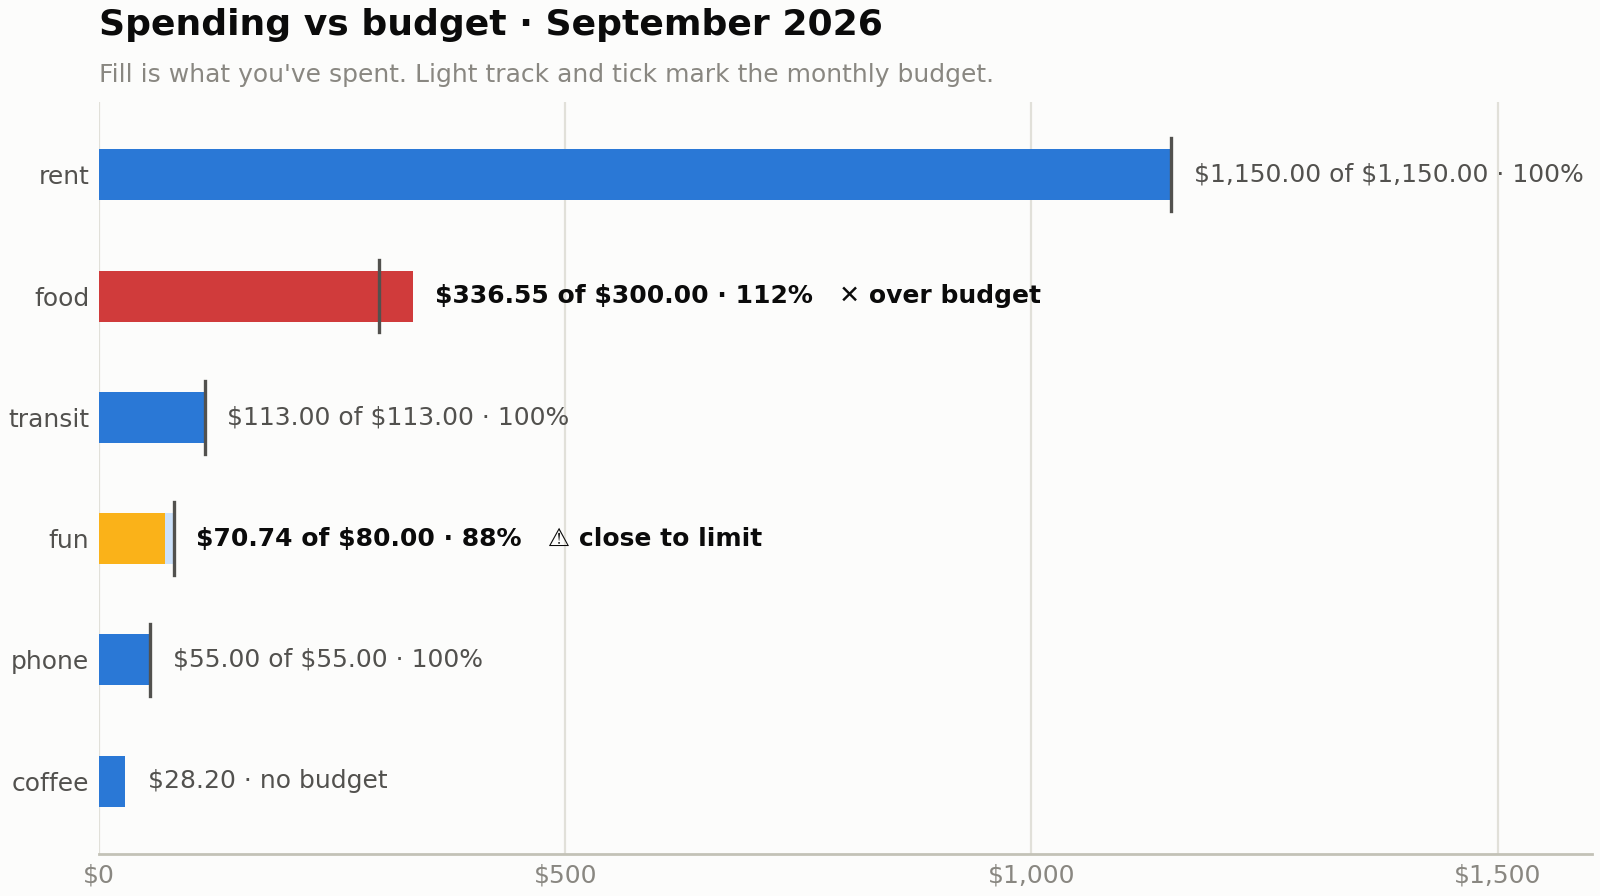
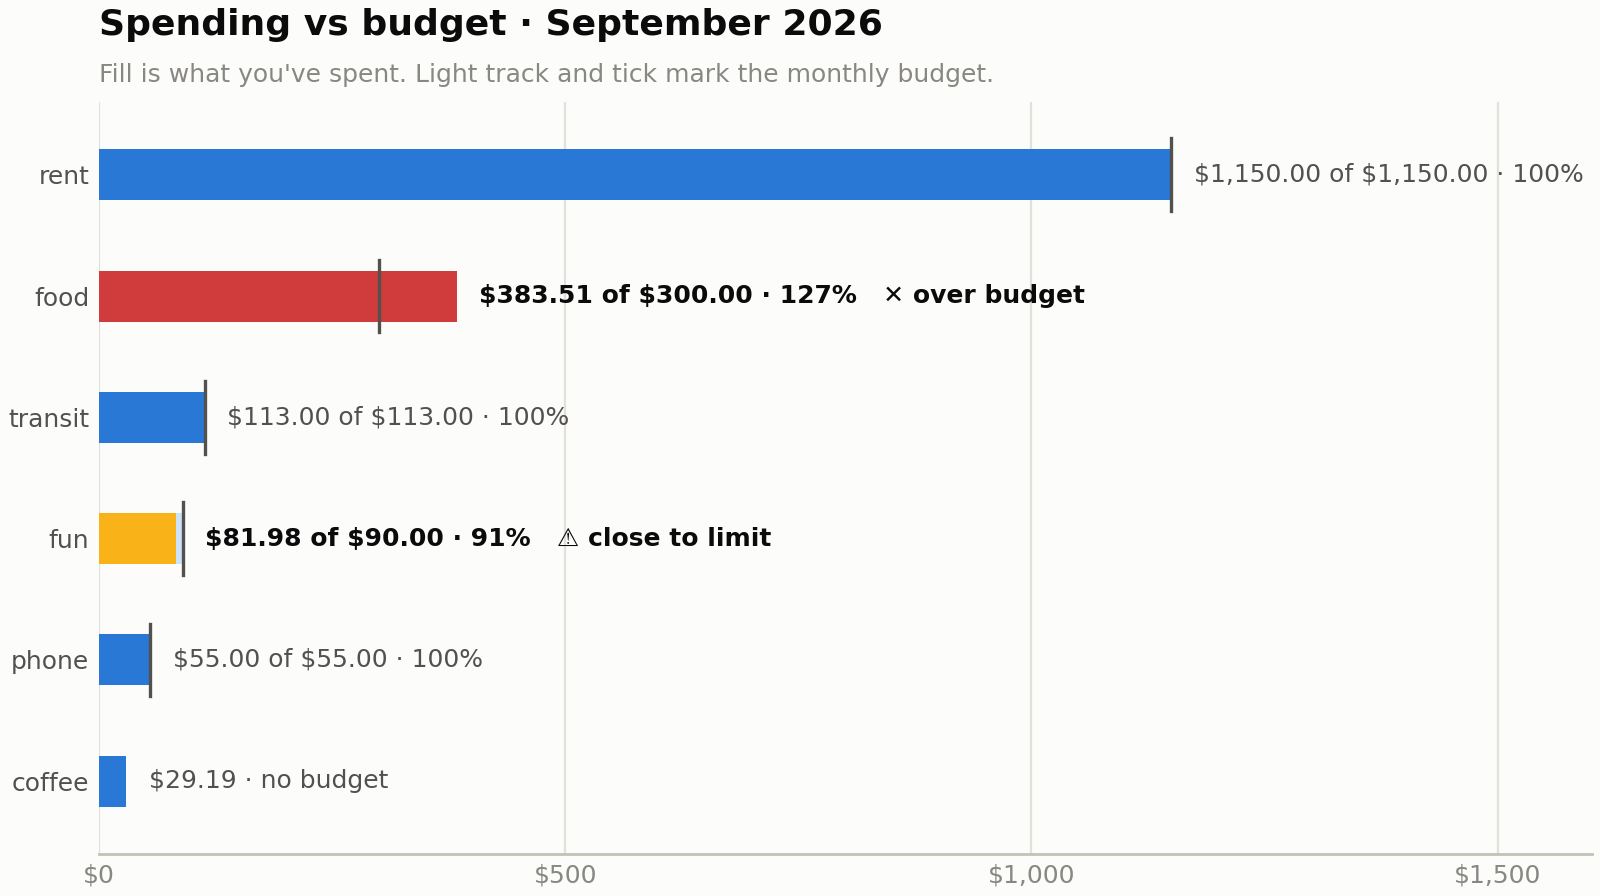
Add a demo script that rebuilds the sample data and README charts
scripts/demo.py creates six months of seeded sample spending and redraws
docs/*.png from it, so the README images can be reproduced exactly.

diff --git a/scripts/demo.py b/scripts/demo.py
@@ -1,0 +1,96 @@
+"""Build a demo database with six months of sample spending, and redraw the README charts.
+
+    python scripts/demo.py                    # creates demo.db, redraws docs/*.png
+    EXPENSE_DB=demo.db expense report --month 2026-09
+
+The data is random but seeded, so every run produces the same expenses and
+the same charts. It covers May 1 to Oct 5, 2026: a student in Winnipeg
+with rent, a U-Pass, a phone plan, groceries, nights out and coffee.
+"""
+
+from __future__ import annotations
+
+import argparse
+import random
+import sys
+from datetime import date
+from pathlib import Path
+
+sys.path.insert(0, str(Path(__file__).resolve().parents[1]))
+
+from expense_tracker import charts, db, reports  # noqa: E402
+from expense_tracker.parsing import month_label, month_range  # noqa: E402
+
+BUDGETS = {"rent": 115000, "food": 30000, "transit": 11300, "fun": 9000, "phone": 5500}
+MONTHS = [date(2026, month, 1) for month in range(5, 11)]
+LAST_DAY = date(2026, 10, 5)  # the data stops here, so October is still in progress
+
+
+def cents(rng: random.Random, low: float, high: float) -> int:
+    return round(rng.uniform(low, high) * 100)
+
+
+def build(path: Path) -> None:
+    conn = db.connect(path)
+    for category, limit in BUDGETS.items():
+        db.set_budget(conn, category, limit)
+
+    rng = random.Random(7)
+    for month in MONTHS:
+        last = LAST_DAY.day if month.month == LAST_DAY.month else 28
+        db.add_expense(conn, 115000, "rent", "Rent", month)
+        db.add_expense(conn, 11300, "transit", "U-Pass", month)
+        db.add_expense(conn, 5500, "phone", "Phone plan", month.replace(day=2))
+        for day in range(2, last + 1, 3):
+            shop = rng.choice(["Superstore", "Costco", "No Frills", "Dinner out"])
+            db.add_expense(conn, cents(rng, 18, 62), "food", shop, month.replace(day=day))
+        for day in rng.sample(range(3, last + 1), k=min(3, last - 2)):
+            outing = rng.choice(["Movie night", "Jets game", "Bowling"])
+            db.add_expense(conn, cents(rng, 14, 48), "fun", outing, month.replace(day=day))
+        for day in rng.sample(range(2, last + 1), k=min(6, last - 1)):
+            db.add_expense(conn, cents(rng, 2.5, 6.5), "coffee", "Tim Hortons", month.replace(day=day))
+    conn.close()
+
+
+def draw_charts(path: Path, folder: Path) -> list[Path]:
+    conn = db.connect(path)
+    budgets = dict(db.list_budgets(conn))
+
+    september = date(2026, 9, 1)
+    rows = reports.build_report(
+        db.spending_by_category(conn, *month_range(september)), budgets
+    )
+    saved = [charts.save(charts.budget_chart(rows, month_label(september)), folder / "budget-chart.png")]
+
+    span = (MONTHS[0], month_range(MONTHS[-1])[1])
+    for category, name in [(None, "trend-chart.png"), ("food", "food-trend-chart.png")]:
+        totals = db.monthly_totals(conn, *span, category=category)
+        values = [totals.get(f"{m:%Y-%m}", 0) for m in MONTHS]
+        figure = charts.trend_chart(
+            MONTHS,
+            values,
+            category,
+            last_month_in_progress=True,
+            budget_cents=budgets.get(category) if category else None,
+        )
+        saved.append(charts.save(figure, folder / name))
+    conn.close()
+    return saved
+
+
+def main() -> None:
+    parser = argparse.ArgumentParser(description=__doc__.splitlines()[0])
+    parser.add_argument("--db", type=Path, default=Path("demo.db"), help="where to create the demo database")
+    parser.add_argument("--charts", type=Path, default=Path("docs"), help="folder for the chart images")
+    args = parser.parse_args()
+
+    if args.db.exists():
+        sys.exit(f"{args.db} already exists. Delete it or pass --db with a new file name.")
+    build(args.db)
+    for path in draw_charts(args.db, args.charts):
+        print(f"Saved {path}")
+    print(f"\nDemo database: {args.db}\nTry: EXPENSE_DB={args.db} expense report --month 2026-09")
+
+
+if __name__ == "__main__":
+    main()
